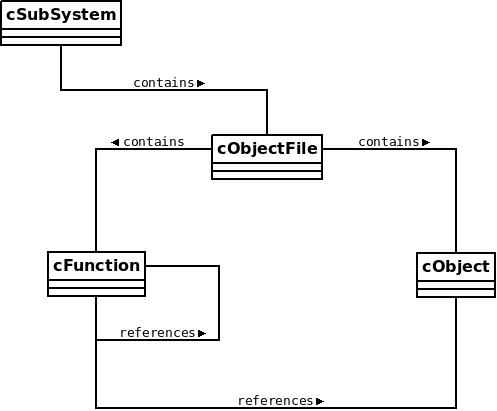
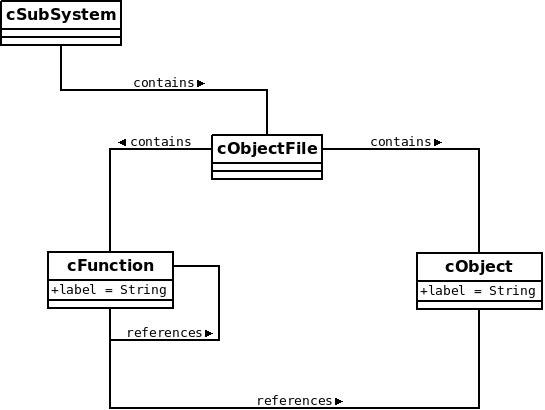
Fixed TA schema

Changed region(s): [[0.0, 0.0, 1.0, 1.0]]

diff --git a/TAFunctions.cpp b/TAFunctions.cpp
@@ -27,19 +27,16 @@
 
 #include "TAFunctions.h"
 
-const string TAFunctions::SCHEMA = "//Generated TA File\n//Author: Jingwei Wu & Bryan J Muscedere\n\nSCHEME TUPLE :\nreference"
-        "\t\tcRoot\t\tcRoot\ncontain\t\tcRoot\t\tcRoot\n\n$INHERIT\tcArchitecturalNds\tcRoot\n$INHERIT\tcAsgNds\t\t"
-        "\tcRoot\n$INHERIT\tcSubSystem\t\tcArchitecturalNds\n$INHERIT\tcFile\t\t\tcArchitecturalNds\n$INHERIT\tcExecuta"
-        "ble\t\tcFile\n$INHERIT\tcObjectFile\t\tcFile\n$INHERIT\tcArchiveFile\t\tcFile\n$INHERIT\tcFunction\t\tcAsgNds\n"
-        "$INHERIT\tcObject\t\t\tcAsgNds\n\nSCHEME ATTRIBUTE :\n$ENTITY {\n\tx\n\ty\n\twidth\n\theight\n\tlabel\n}\n\ncR"
-        "oot {\n\telision = contain\n\tcolor = (0.0 0.0 0.0)\n\tfile\n\tline\n\tname\n}\n\ncAsgNds {\n\tbeg\n\tend\n\tf"
-        "ile\n\tline\n\tvalue\n\tcolor = (0.0 0.0 0.0)\n}\n\ncArchitecturalNds {\n\tclass_style = 4\n\tcolor = (0.0 0.0"
-        " 1.0)\n\tcolor = (0.0 0.0 0.0)\n}\n\ncSubSystem {\n\tclass_style = 4\n\tcolor = (0.0 0.0 1.0)\n}\n\ncFile {\n"
-        "\tclass_style = 2\n\tcolor = (0.9 0.9 0.9)\n\tlabelcolor = (0.0 0.0 0.0)\n}\n\ncExecutable {\n\tclass_style = "
-        "4\n\tcolor = (0.8 0.9 0.9)\n\tlabelcolor = (0.0 0.0 0.0)\n}\n\ncObjectFile {\n\tclass_style = 4\n\tcolor = (0."
-        "6 0.8 0.6)\n\tlabelcolor = (0.0 0.0 0.0)\n}\n\ncArchiveFile {\n\tclass_style = 4\n\tcolor = (0.5 0.5 0.1)\n\tl"
-        "abelcolor = (0.0 0.0 0.0)\n}\n\ncFunction {\n\tcolor = (1.0 0.0 0.0)\n\tlabelcolor = (0.0 0.0 0.0)\n}\n\n(refe"
-        "rences) {\n\tcolor = (0.0 0.0 0.0)\n}\n\n";
+const string TAFunctions::SCHEMA = "//Generated TA File\n//Author: Jingwei Wu & Bryan J Muscedere\n\nSCHEME TUPLE :\nre"
+        "ference\tcRoot\t\t\tcRoot\ncontain\t\tcRoot\t\t\tcRoot\n\n$INHERIT\tcArchitecturalNds\tcRoot\n$INHERIT\tcAsgNd"
+        "s\t\t\tcRoot\n$INHERIT\tcSubSystem\t\tcArchitecturalNds\n$INHERIT\tcObjectFile\t\tcArchitecturalNds\n$INHERIT\t"
+        "cFunction\t\tcAsgNds\n$INHERIT\tcObject\t\t\tcAsgNds\n\nSCHEME ATTRIBUTE :\n$ENTITY {\n\tx\n\ty\n\twidth\n\the"
+        "ight\n\tlabel\n}\n\ncRoot {\n\telision = contain\n\tcolor = (0.0 0.0 0.0)\n\tfile\n\tline\n\tname\n}\n\ncAsgNd"
+        "s {\n\tbeg\n\tend\n\tfile\n\tline\n\tvalue\n\tcolor = (0.0 0.0 0.0)\n}\n\ncArchitecturalNds {\n\tclass_style ="
+        " 4\n\tcolor = (0.0 0.0 1.0)\n\tcolor = (0.0 0.0 0.0)\n}\n\ncSubSystem {\n\tclass_style = 4\n\tcolor = (0.0 0.0"
+        " 1.0)\n}\n\ncObjectFile {\n\tclass_style = 4\n\tcolor = (0.6 0.8 0.6)\n\tlabelcolor = (0.0 0.0 0.0)\n}\n\ncFun"
+        "ction {\n\tcolor = (1.0 0.0 0.0)\n\tlabelcolor = (0.0 0.0 0.0)\n}\n\n(reference) {\n\tcolor = (0.0 0.0 0.0)\n}"
+        "\n\n";
 const string TAFunctions::O_FILE_EXT = ".o";
 const string TAFunctions::C_FILE_EXT = ".c";
 const string TAFunctions::CPLUS_FILE_EXT = ".cc";

diff --git a/ELF/ElfReader.cpp b/ELF/ElfReader.cpp
@@ -78,7 +78,14 @@ void ElfReader::read(vector<string> inputFiles, vector<string> removeFiles){
     //Start by reading all the files.
     vector<path> objectFiles;
     for (string file : inputFiles){
-        path curr = canonical(path(file));
+        path curr;
+        try {
+            curr = canonical(path(file));
+        } catch (...){
+            cerr << "The file " << curr.string() << " does not exist!" << endl;
+            cerr << "Please supply a valid file name." << endl;
+            return;
+        }
 
         //Check if the file exists.
         if (!boost::filesystem::exists(curr)) {
@@ -109,7 +116,14 @@ void ElfReader::read(vector<string> inputFiles, vector<string> removeFiles){
 
     //Perform the removals.
     for (string removal : removeFiles){
-        path p = canonical(path(removal));
+        path p;
+        try {
+            p = canonical(path(removal));
+        } catch (...){
+            cerr << "The file " << p.string() << " does not exist!" << endl;
+            cerr << "Please supply a valid file name." << endl;
+            return;
+        }
         cout << "Removing " << p.string() << "...";
 
         for (int i = 0; i < objectFiles.size(); i++){
